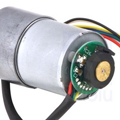
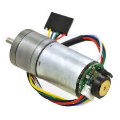
Replaced metal gear motor image. Adjusted multimeter db seeds.

diff --git a/db/seeds.rb b/db/seeds.rb
@@ -183,20 +183,14 @@ and uses a simple IDE which can be be freely downloaded.',
     unitPrice: 9.95,
     costFromSupplier: 5.00,
     quantityInStock: 130,
-    description: 'Specifications: DV Voltage 200mV,
-200mV,
-20V,
-200V,
-1000V<br /> MaxInput:1000V DC -/+ 0.5<br /> DC Amps: 200 uA,
-20mA,
-200mA,
-10A<br /> Overload Protected<br /> AC Volts: 200V,
-750 V,
-maxinput 750 V rms input<br /> Imedage: 1Meg +/- 1.2%<br /> Resistance: 200,
-2k,
-20k,
-200k Ohms,
-2M Ohms -/+ 1.2%',
+    description: 'Specifications:
+DV Voltage { 200mV, 200mV, 20V, 200V, 1000V }
+MaxInput: { 1000V DC -/+ 0.5 }
+DC Amps: { 200 uA, 20mA, 200mA, 10A }
+Overload Protected
+AC Volts: { 200V, 750 V, maxinput 750V }
+Imedage: { 1Meg +/- 1.2% }
+Resistance: { 200, 2k, 20k, 200k Ohms, 2M Ohms -/+ 1.2% }',
     imageUrl: 'multimeter.jpg'
   }, {
     name: 'Crimp Tool With Connectors',

diff --git a/app/controllers/cart_controller.rb b/app/controllers/cart_controller.rb
@@ -28,7 +28,7 @@ class CartController < ApplicationController
     else
       # Send 403
       head :forbidden, {
-        message: "Only #{product.quantityInStock} items in stock!",
+        message: "Only #{product.quantityInStock} items available!",
         max: product.quantityInStock
       }
     end
